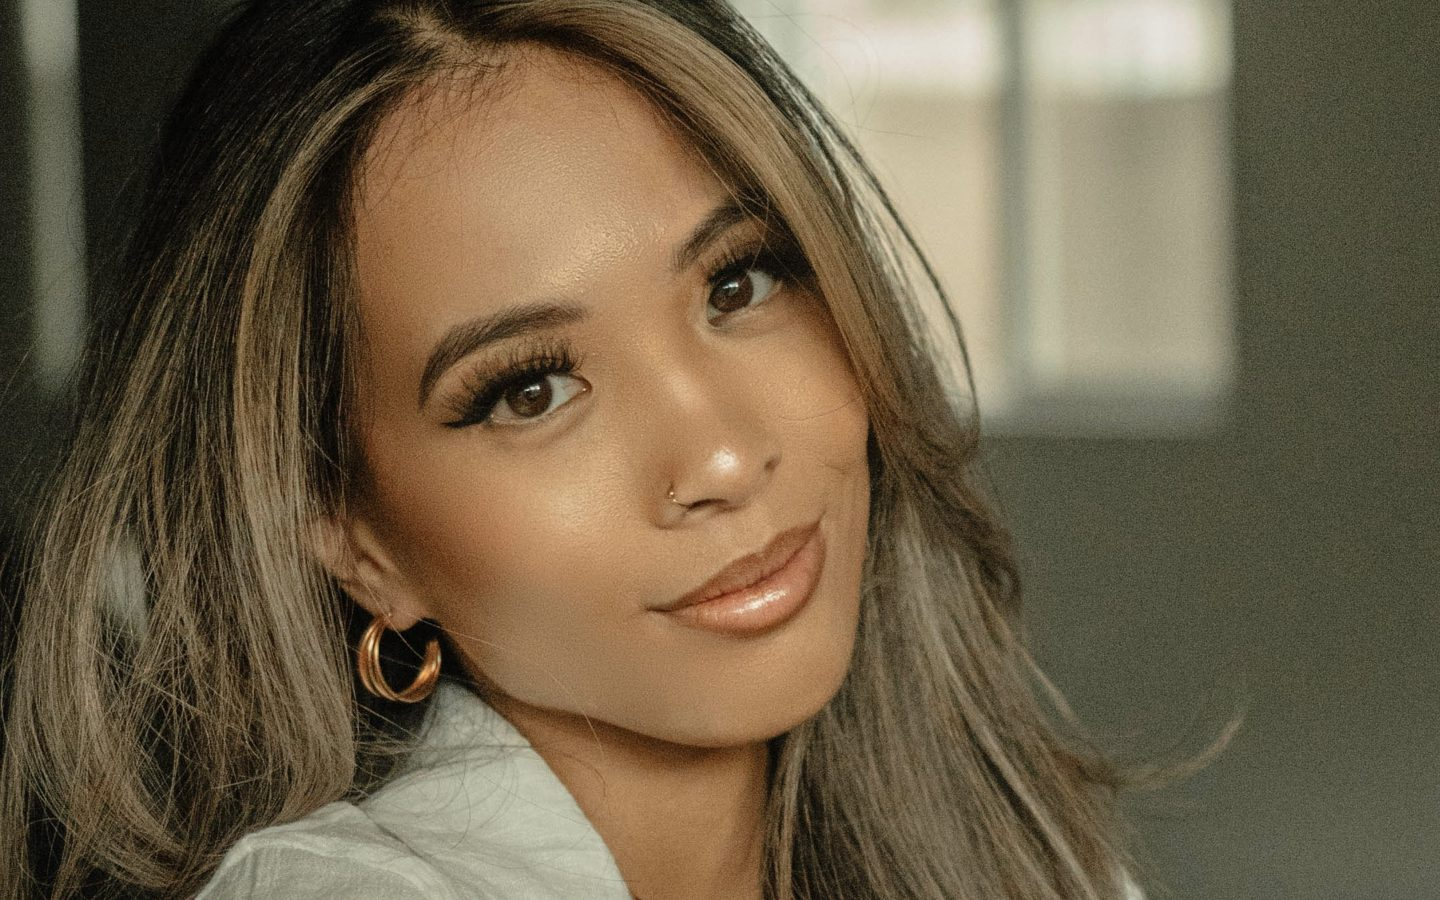
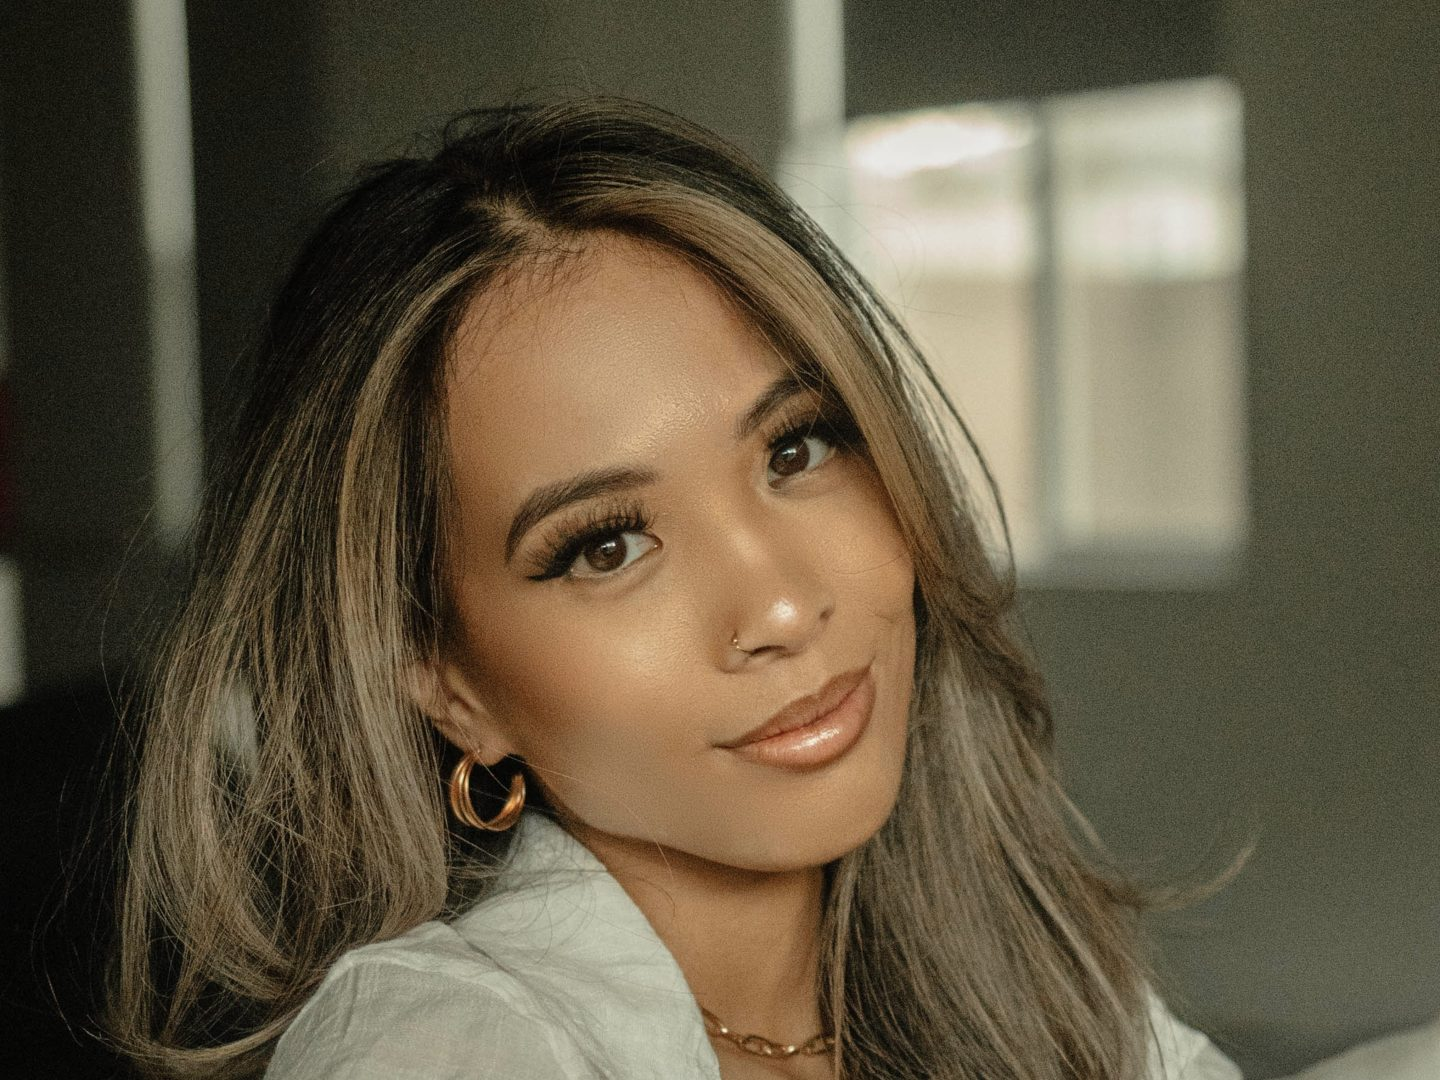
Hero v2: full-width head-to-chest crop (nothing clipped, zoomed out), 4:3 band, CTA bottom-right

diff --git a/link/index.html b/link/index.html
@@ -174,9 +174,9 @@
   @media (max-width:720px){ .page{box-shadow:none} }
   @media (max-width:560px){ .photo{aspect-ratio:4/5;background-position:50% 38%} }
   @media (min-width:561px){
-    .photo{background-image:url("hero-wide.jpg");background-position:50% 50%}
+    .photo{background-image:url("hero-wide.jpg");background-position:50% 18%;aspect-ratio:4/3}
     .scrim{background:linear-gradient(270deg, rgba(42,42,45,.86) 0%, rgba(42,42,45,.52) 30%, rgba(42,42,45,.16) 54%, rgba(42,42,45,0) 74%)}
-    .overlay{justify-content:center;align-items:flex-end;text-align:right}
+    .overlay{justify-content:flex-end;align-items:flex-end;text-align:right;padding-bottom:clamp(26px,4vw,44px)}
     .tagline{max-width:46%}
     .cta{align-self:flex-end}
   }
